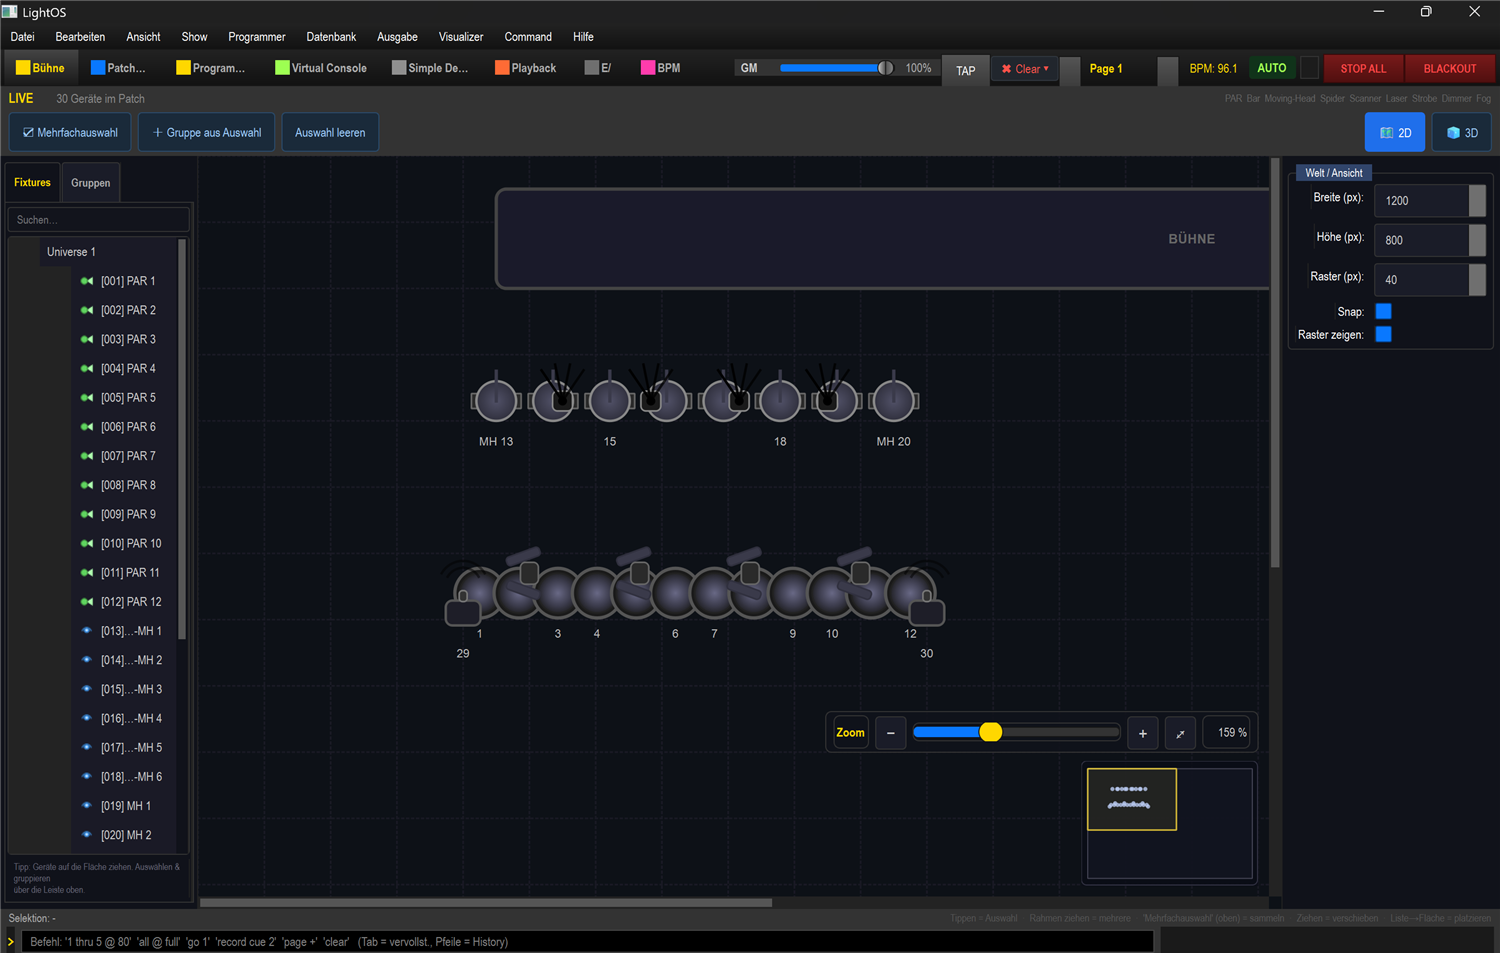
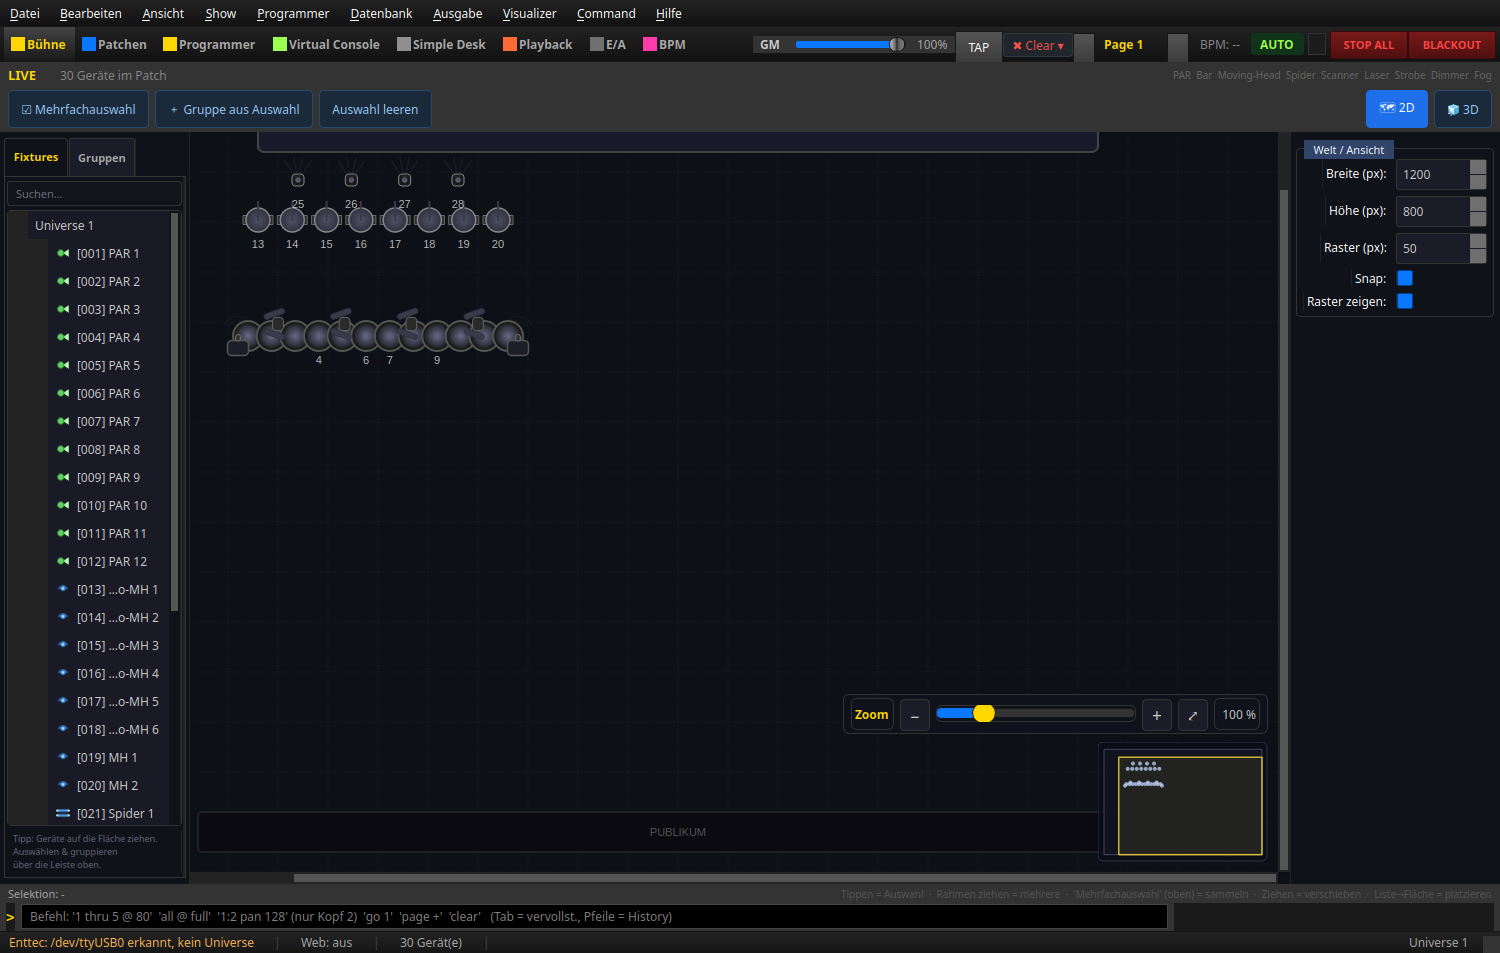
fix(demo): Laser bekommen eine eigene Traverse statt der MH-Reihe (GDS-2) (#505)
Laser und alle Moving Heads teilten sich z=-2.6. Im 2D-Top-Down ist das die
x/z-Projektion -- "0,8 m hoeher" faellt dort weg, Icons und Labels lagen also
exakt uebereinander; in 3D hingen die Laser nur knapp ueber den Movern.

Neu haengen sie an einer eigenen "Laser-Traverse" (z=-4.6, 12 m, zwei eigene
Stuetzen). Das trennt beide Ansichten und entspricht dem realen Aufbau, in dem
Laser hinter den Movern haengen.

Gegenprobe an der neu gebauten Show:

    laser        z-Reihen: [-4.6]
    moving_head  z-Reihen: [-2.6, 2.6]
    Ueberschneidung: keine

DOKU-DRIFT MITGEZOGEN

Beide Anleitungsbilder zeigten den alten Aufbau und sind neu aufgenommen
(echtes Fenster, X11):

- 01_buehne_30fixtures.png -- 2D-Plan mit der neuen Laser-Reihe. Der erste Wurf
  lief mit 299 % Zoom aus einer alten Sitzung; zurueckgesetzt ueber den
  Zoom-REGLER, nicht ueber die Canvas -- sonst haette das Label weiter 299 %
  behauptet ueber einer 100-%-Ansicht.
- 07_3d_visualizer_effekte.png -- 3D mit Buehne und allen drei Traversen. Die
  Show wird dafuer IM SELBEN Lauf gebaut, sonst fehlt die Buehnendatei im
  Wegwerf-Datenordner und der Visualizer zeigt "0 Buehnen-Elemente".

Ehrlich dazu: im 3D-Bild leuchten keine Beams, obwohl 43 Funktionen gestartet
waren. Die Bildunterschrift sagt deshalb jetzt, was zu sehen ist ("30 Fixtures
an Front-, Back- und Laser-Traverse") statt "mit laufenden Effekten".

Test-Gate: 513/513 Segmente gruen.
[…]

diff --git a/tools/build_grosse_demo_show_2026.py b/tools/build_grosse_demo_show_2026.py
@@ -248,9 +248,19 @@ def main():
     sd = StageDefinition(name=STAGE_NAME)
     front = sd.add("truss_h", x=0, y=5.5, z=2.6,  w=14, h=0.3, d=0.3, name="Front-Traverse")
     back  = sd.add("truss_h", x=0, y=5.5, z=-2.6, w=14, h=0.3, d=0.3, name="Back-Traverse")
+    # GDS-2: eigene Traverse fuer die Laser. Vorher hingen sie an der
+    # Back-Traverse auf demselben z wie die Moving Heads: im 2D-Top-Down
+    # (x/z-Projektion) faellt "0,8 m hoeher" weg, also lagen Icons und Labels
+    # exakt uebereinander. Eine eigene Reihe trennt beide Ansichten — und
+    # entspricht dem realen Aufbau, in dem Laser hinter den Movern haengen.
+    laser_tr = sd.add("truss_h", x=0, y=5.5, z=-4.6, w=12, h=0.3, d=0.3,
+                      name="Laser-Traverse")
     for sx in (-7, 7):
         for sz in (2.6, -2.6):
             sd.add("truss_v", x=sx, y=2.75, z=sz, w=0.3, h=5.5, d=0.3, name=f"Stuetze {sx},{sz}")
+    for sx in (-6, 6):
+        sd.add("truss_v", x=sx, y=2.75, z=-4.6, w=0.3, h=5.5, d=0.3,
+               name=f"Stuetze {sx},-4.6")
     sd.add("platform", x=0, y=0.3, z=0.4, w=16, h=0.6, d=8, name="Buehne")
     save_stage(sd)
     b.state.active_stage_name = STAGE_NAME
@@ -285,7 +295,9 @@ def main():
     for fid, x in zip(spider_fids, _spread(len(spider_fids), -5.0, 5.0)):
         pos[fid] = (x, 5.1, 2.6); dock[fid] = front.id  # Spider an Front-Traverse
     for fid, x in zip(las_fids, _spread(len(las_fids), -4.0, 4.0)):
-        pos[fid] = (x, 5.9, -2.6); dock[fid] = back.id
+        # GDS-2: eigene Reihe (z=-4.6) statt derselben Tiefe wie die MHs — sonst
+        # decken sich Laser und Mover im 2D-Plan vollstaendig.
+        pos[fid] = (x, 5.9, -4.6); dock[fid] = laser_tr.id
     for fid, x in zip(fog_fids, (-7.0, 7.0)):
         pos[fid] = (x, 0.4, 3.8)
 

diff --git a/BACKLOG.md b/BACKLOG.md
@@ -871,7 +871,7 @@ _Aus dem Live-Test + adversarialem Audit der frisch gebauten Demo-Show. **GDS-1 
 | ID | Prio | Status | Titel | Akzeptanzkriterium |
 |----|------|--------|-------|--------------------|
 | GDS-1 | P2 | done → Archiv | VC-Grandmaster-Fader zeigt beim Laden 0 % trotz GM 100 % — erste Berührung =… (Details: BACKLOG_ARCHIVE.md) |
-| GDS-2 | P3 | todo | **Demo: Laser liegen deckungsgleich auf der MH-Reihe** | Laser und alle Moving Heads teilen `z=-2.6` (`build_grosse_demo_show_2026.py:271-272` vs `:267-268`) → im 2D-Top-Down (x/z-Projektion) identische Zeile, Icons/Labels überlappen; in 3D hängen die Laser nur 0.8 m über den MHs. **DoD:** Lasern eigene Tiefe/Reihe geben, sodass 2D **und** 3D trennen. |
+| GDS-2 | P3 | done (2026-07-31) | **Demo: Laser liegen deckungsgleich auf der MH-Reihe** | Laser und alle Moving Heads teilen `z=-2.6` (`build_grosse_demo_show_2026.py:271-272` vs `:267-268`) → im 2D-Top-Down (x/z-Projektion) identische Zeile, Icons/Labels überlappen; in 3D hängen die Laser nur 0.8 m über den MHs. **DoD:** Lasern eigene Tiefe/Reihe geben, sodass 2D **und** 3D trennen. **✅ ERLEDIGT 2026-07-31.** Die Laser hängen jetzt an einer **eigenen „Laser-Traverse"** (z = −4.6, 12 m, zwei eigene Stützen) statt an der Back-Traverse auf demselben z wie die Mover. Das trennt beide Ansichten und entspricht dem realen Aufbau (Laser hinter den Movern). Gegenprobe an der neu gebauten Show: `laser z-Reihen: [-4.6]`, `moving_head: [-2.6, 2.6]` — **keine Überschneidung** mehr; vorher lagen Icons und Labels im 2D exakt übereinander, weil „0,8 m höher" in der x/z-Projektion wegfällt. **Beide Anleitungsbilder neu aufgenommen** (DoD-Punkt „Doku-Drift"): `01_buehne_30fixtures.png` zeigt die neue Reihe im 2D-Plan bei 100 % Zoom (der Screenshot lief zuerst mit 299 % aus einer alten Sitzung — über den Zoom-**Regler** zurückgesetzt, nicht über die Canvas, sonst hätte das Label weiter 299 % behauptet), `07_3d_visualizer_effekte.png` zeigt Bühne + alle drei Traversen. **Ehrlich dazu:** im 3D-Bild leuchten keine Beams, obwohl 43 Funktionen gestartet waren — die Bildunterschrift sagt deshalb jetzt, was zu sehen ist („30 Fixtures an Front-, Back- und Laser-Traverse") statt „mit laufenden Effekten". |
 | GDS-3 | P3 | done (2026-07-29) | **VC-Galerie-GIFs `color_chase`/`pulse` zu dunkel** | **Behoben und gemessen.** Der brauchbare Maßstab ist nicht die mittlere Helligkeit, sondern der **hell beleuchtete Flächenanteil** — `gobo_spin` (Mittel 20,3) und `sparkle` (20,4) sind dunkler als `color_chase` und völlig in Ordnung, weil sie genug klar sichtbare Fläche haben. `color_chase` lag bei **1,1 %** Pixeln über 128 (ein einzelner leuchtender Punkt von fünf, Rest `(40,46,60)` auf fast Schwarz); jetzt **3,9 %** bei Peak 236 — im Band der gesunden Nachbarn (`gobo_spin` 4,1 %, `sparkle` 5,3 %). Umgesetzt als Schweif: aktiver Punkt voll, die zwei dahinter **entsättigt statt abgedunkelt** (Abdunkeln war der erste Versuch und blieb messbar unter der Schwelle — bei hoher Sättigung ist die Luminanz eines Farbtons ohnehin niedrig), unbeleuchtete Punkte deutlich heller, Punkte größer. Das liest sich zugleich ehrlicher: ein Lauflicht hat einen Nachlauf. `pulse`: Poster-Frame (Frame 0 **und** das statische PNG) zeigte mit `k=0.5` die Mitte des Atmens — `cos` statt `sin` macht `frac=0` zum **Maximum** (Poster 21,9 → 74,2, und das ist jetzt der Höchstwert der Sequenz); Grundhelligkeit angehoben, Flächenanteil 5,6 % liegt damit im Normalband. Visuell gegengeprüft mit einem Vorher/Nachher-Kontaktabzug **inklusive nachgebautem Button-Scrim** (schwarz, Alpha 60→120) — genau dort war der Unterschied am drastischsten. **Nebenbefunde:** (a) `d_spectrum` rief `QColor.fromHsv(int(t*360), …)` mit t=1.0 auf → Hue **360**, außerhalb des gültigen Bereichs 0–359; Qt gab bei jedem Lauf `HSV parameters out of range` aus und lieferte am rechten Rand eine ungültige Farbe — vorbestehend, jetzt `% 360`. (b) GIF-Encoder nicht byte-deterministisch → als **GDS-6** erfasst. |
 | GDS-6 | P3 | done (2026-07-31) | **`tools/gen_vc_gallery.py` erzeugt nicht byte-identische GIFs** | Der Docstring behauptet eine deterministische, committete Ausgabe; tatsächlich liefert eine Regenerierung ohne jede inhaltliche Änderung für unbeteiligte GIFs **pixelgleiche, aber byteverschiedene** Dateien (2026-07-29 an sechs von zehn nachgewiesen: `beam_sweep`, `color_wheel`, `gobo_spin`, `rainbow_scroll`, `sparkle`, `vu_meter`). Folge: jeder Generator-Lauf churnt sämtliche Binärdateien im Diff, und man sieht nicht mehr, was sich wirklich geändert hat — bei GDS-3 mussten die sechs von Hand zurückgesetzt werden. Verdacht: Palettenreihenfolge bei `optimize=True` in Pillow. **DoD:** entweder deterministisch machen (feste Palette) oder den Docstring korrigieren und nur schreiben, was sich pixelmäßig geändert hat. WinARM-Regressions-Risiko: none (Werkzeug). **✅ ERLEDIGT 2026-07-31 — und der Verdacht war falsch.** Nachgemessen: der Generator ist **auf einem Rechner sehr wohl deterministisch** — zwei Läufe in getrennten Prozessen liefern hier byte-identische GIFs (alle zehn). Verschieden werden sie **zwischen Umgebungen**: die committeten Dateien stammen vom alten Windows-ARM-Rechner, und gegenüber der frischen Linux-Ausgabe sind genau die sechs gemeldeten Frame für Frame **pixelgleich, aber anders kodiert** (20/20 Frames identisch, geprüft in RGBA). Die adaptive Palette hängt an der Pillow-Version — eine **feste Palette hätte das nicht gelöst**, weil sich auch der Rest des GIF-Writers zwischen Versionen ändern kann. Gebaut ist deshalb der Riegel beim Schreiben: `_pixels_equal` vergleicht Frame für Frame in RGBA, `_write_if_changed` fasst die Datei nur bei echter Bildänderung an; PNG- und GIF-Pfad laufen beide darüber. **Gegenprobe in-place:** mit dem alten Stand meldet ein No-op-Lauf `M` auf allen sechs GIFs, mit dem neuen ist `git status` nach dem Lauf **leer**. Test `test_gds6_gallery_no_churn.py` (8), inkl. der echten Lage („gleiche Pixel, andere Kodierung“) gegen die committete `beam_sweep.gif`. |
 | GDS-4 | P3 | done → Archiv | Demo: Effekt-Buttons nicht solo/exclusive → gleiche-Geräte-Effekte stapeln (Details: BACKLOG_ARCHIVE.md) |
